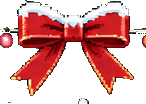
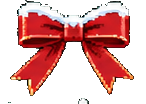
크리스마스 테마: 리본 전구 줄 고정, 눈덩이 부서짐, 눈사람 상호작용, 마우스 눈 늘림
Claude-Session: https://claude.ai/code/session_01SD1r88cWRXeeVkCa4hFAMd

Changed region(s): [[0.0, 0.2596, 0.137, 0.4615], [0.8767, 0.2596, 1.0, 0.4615]]

diff --git a/src/components/theme/MouseEffects.tsx b/src/components/theme/MouseEffects.tsx
@@ -1,7 +1,8 @@
 // 마우스에 반응하는 효과 — 화면 맨 위에 눌리지 않는 캔버스 한 장을 깔고 테마마다 다른 것을 그린다.
 //   바다       : 마우스가 지나간 자리에서 방울이 떠오른다
 //   크리스마스 : 마우스가 지나간 자리와 하늘(배경)에서 눈이 떨어져, 그 아래 카드 윗변(data-snow-ledge)과 화면 바닥에 쌓인다.
-//                쌓인 눈으로 눈덩이를 굴리고(경사면에서는 저절로 굴러 내려간다), 눈덩이 둘을 합치면 눈사람이 된다
+//                쌓인 눈으로 눈덩이를 굴리고(경사면에서는 저절로 굴러 내려간다), 눈덩이 둘을 합치면 눈사람이 된다.
+//                높은 데서 떨어진 눈덩이는 부서지고, 눈사람은 마우스를 바라보고 · 누르면 흔들리고 · 끌어 옮길 수 있고 · 높은 데서 떨어지면 흩어진다
 //   우주       : 마우스 주변에서 별빛이 반짝인다
 //   다크       : 없음 (깔끔하게 쓰는 테마)
 // 설정 › 테마의 "마우스 효과" 스위치로 끈다. 기기의 "움직임 줄이기"가 켜져 있으면 그리지 않는다.
@@ -9,7 +10,7 @@
 import { useEffect, useRef } from 'react'
 import { prefersReducedMotion, useTheme, type ThemeId } from '../../lib/theme'
 
-type Particle = { x: number; y: number; vx: number; vy: number; r: number; life: number; max: number; kind: 'bubble' | 'snow' | 'spark'; hue?: string; sky?: boolean }
+type Particle = { x: number; y: number; vx: number; vy: number; r: number; life: number; max: number; kind: 'bubble' | 'snow' | 'spark'; hue?: string; sky?: boolean; /** 부서진 눈덩이 조각: 중력을 받는다 */ g?: number }
 
 /* ---------- 쌓이는 눈 (크리스마스) ---------- */
 const BIN = 3 // 쌓인 눈 높이를 이 너비(px)마다 하나씩 둔다
@@ -21,13 +22,29 @@ const BALL_START_R = 4
 const BALL_MAX_R = 26
 const SNOWMAN_MIN_R = 10 // 이 크기 이상인 눈덩이 둘을 합치면 눈사람
 const SLOPE_G = 0.45 // 경사면에서 눈덩이를 끌어내리는 힘
-const ROLL_FRICTION = 0.97
+const ROLL_FRICTION = 0.93
+const ROLL_STOP_SLOPE = 0.18 // 이보다 완만하고 느리면 멈춘다 (울퉁불퉁한 눈 위에서 끝없이 구르지 않게)
 const SKY_EVERY = 3 // 이 프레임마다 하늘에서 눈송이 하나 (배경 눈도 쌓인다)
 const SKY_DEPOSIT = 0.9 // 하늘 눈은 마우스 눈보다 조금 덜 쌓인다
 /** 눈덩이: 놓인 자리(ledge)와 그 자리 왼쪽부터의 x. 들고 있을 때는 화면 좌표(hx, hy) */
 type Ball = { ledge: Ledge | null; x: number; r: number; held: boolean; hx: number; hy: number; vx: number; vy: number; rolling: boolean; spin: number }
 /** 눈사람: 아래부터 눈덩이 반지름 */
-type Snowman = { ledge: Ledge; x: number; parts: number[] }
+type Snowman = {
+  ledge: Ledge | null
+  x: number
+  parts: number[]
+  /** 흔들림(라디안)과 그 속도: 누르거나 착지하면 흔들린다 */
+  wob: number
+  wobV: number
+  /** 들고 있거나 떨어지는 중이면 화면 좌표(밑바닥 가운데) */
+  held: boolean
+  hx: number
+  hy: number
+  vy: number
+}
+const BALL_BREAK_V = 9 // 이 속도(px/프레임) 이상으로 떨어지면 눈덩이가 부서진다 (≈ 80px 넘게 떨어졌을 때)
+const SNOWMAN_BREAK_V = 11 // 눈사람은 이 속도 이상이면 눈덩이로 흩어진다
+const CHUNK_G = 0.28
 
 /** 눈이 쌓이는 자리 하나: 카드 윗변(el) 또는 화면 바닥(el = null). 높이는 그 자리 왼쪽부터 BIN 간격 */
 type Ledge = { el: Element | null; h: number[] }
@@ -60,7 +77,7 @@ function settle(hs: number[]) {
   }
 }
 
-const MAX_PARTICLES = 160
+const MAX_PARTICLES = 420
 
 /** 테마별로 마우스가 움직일 때 만들 알갱이 */
 function spawn(theme: ThemeId, x: number, y: number): Particle[] {
@@ -88,7 +105,7 @@ function spawn(theme: ThemeId, x: number, y: number): Particle[] {
 function eatSnow(hs: number[], x: number, r: number, dist: number) {
   const from = Math.floor((x - r * 0.7) / BIN)
   const to = Math.floor((x + r * 0.7) / BIN)
-  const bite = Math.min(1, 0.12 + Math.abs(dist) * 0.18) // 이번에 걷어 낼 비율
+  const bite = Math.min(0.35, 0.05 + Math.abs(dist) * 0.06) // 이번에 걷어 낼 비율
   let took = 0
   for (let i = from; i <= to; i++) {
     const v = hs[i] ?? 0
@@ -97,7 +114,7 @@ function eatSnow(hs: number[], x: number, r: number, dist: number) {
     hs[i] = v - t
     took += t
   }
-  return r >= BALL_MAX_R ? r : Math.min(BALL_MAX_R, Math.sqrt(r * r + took * BIN * 0.9))
+  return r >= BALL_MAX_R ? r : Math.min(BALL_MAX_R, Math.sqrt(r * r + took * BIN * 0.45))
 }
 
 /** 눈덩이: 흰 원 + 아래쪽 그늘 + 굴린 결(회전) */
@@ -121,11 +138,12 @@ function drawBall(ctx: CanvasRenderingContext2D, x: number, y: number, r: number
   }
 }
 /** 눈사람 머리: 숯 눈 · 당근 코 · 입 */
-function drawFace(ctx: CanvasRenderingContext2D, x: number, y: number, r: number) {
+function drawFace(ctx: CanvasRenderingContext2D, x: number, y: number, r: number, lx = 0, ly = 0) {
+  // 눈동자는 마우스 쪽을 본다 (lx, ly: -1 ~ 1)
   ctx.fillStyle = '#1f2328'
   for (const dx of [-0.35, 0.35]) {
     ctx.beginPath()
-    ctx.arc(x + dx * r, y - r * 0.15, Math.max(1.2, r * 0.11), 0, Math.PI * 2)
+    ctx.arc(x + dx * r + lx * r * 0.07, y - r * 0.15 + ly * r * 0.07, Math.max(1.2, r * 0.11), 0, Math.PI * 2)
     ctx.fill()
   }
   ctx.fillStyle = '#f08a24'
@@ -204,10 +222,53 @@ export function MouseEffects() {
       const i = Math.floor(b.x / BIN)
       return { x: r.left + b.x, y: r.top - (b.ledge.h[i] ?? 0) - b.r }
     }
+    /** 눈덩이가 부서진다: 크기만큼 눈 조각이 튀어 흩어지고, 내려앉은 조각은 다시 쌓인다 */
+    const shatter = (x: number, y: number, r: number) => {
+      const n = Math.min(40, Math.round(r * 1.6))
+      for (let k = 0; k < n; k++) {
+        const a = Math.random() * Math.PI - Math.PI // 위쪽 반원으로
+        const sp = 1 + Math.random() * 3
+        particles.push({ x: x + Math.cos(a) * r * 0.5, y: y + Math.sin(a) * r * 0.3, vx: Math.cos(a) * sp, vy: Math.sin(a) * sp - 0.5, r: 1.4 + Math.random() * 2, life: 0, max: 100000, kind: 'snow', g: CHUNK_G })
+      }
+    }
+    /** 눈사람 밑바닥 가운데(화면 좌표) */
+    const manBase = (m: Snowman) => {
+      if (m.held || !m.ledge) return { x: m.hx, y: m.hy }
+      const r = rectOf(m.ledge)
+      if (!r) return null
+      return { x: r.left + m.x, y: r.top - (m.ledge.h[Math.floor(m.x / BIN)] ?? 0) }
+    }
+    /** 눈사람 각 눈덩이의 가운데 (흔들림 반영) */
+    const manParts = (m: Snowman) => {
+      const base = manBase(m)
+      if (!base) return null
+      const out: { x: number; y: number; r: number }[] = []
+      let up = 0
+      for (const pr of m.parts) {
+        up += pr
+        out.push({ x: base.x + Math.sin(m.wob) * up, y: base.y - Math.cos(m.wob) * up, r: pr })
+        up += pr * 0.7
+      }
+      return out
+    }
+    let grabMan: { m: Snowman; sx: number; sy: number; moved: boolean; ox: number; oy: number } | null = null
+
     const down = (e: PointerEvent) => {
       if (active !== 'christmas' || e.button !== 0) return
       rects = ledgeRects(ledges, w, h)
       rectsAt = performance.now()
+      // 0) 눈사람을 누른다 (끌면 옮기고, 그냥 떼면 흔들린다)
+      for (const m of snowmen) {
+        const ps = manParts(m)
+        const base = manBase(m)
+        if (!ps || !base) continue
+        if (ps.some((q) => Math.hypot(e.clientX - q.x, e.clientY - q.y) <= q.r + 2)) {
+          grabMan = { m, sx: e.clientX, sy: e.clientY, moved: false, ox: e.clientX - base.x, oy: e.clientY - base.y }
+          e.preventDefault()
+          if (!raf) raf = requestAnimationFrame(frame)
+          return
+        }
+      }
       // 1) 눈덩이를 집는다
       for (const b of balls) {
         const p = ballPos(b)
@@ -241,6 +302,22 @@ export function MouseEffects() {
     }
     let dragV = 0
     const drag = (e: PointerEvent) => {
+      if (grabMan) {
+        const g = grabMan
+        if (!g.moved && Math.hypot(e.clientX - g.sx, e.clientY - g.sy) > 4) {
+          g.moved = true
+          g.m.held = true
+          g.m.ledge = null
+        }
+        if (g.moved) {
+          const dxm = e.clientX - g.ox - g.m.hx
+          g.m.hx = e.clientX - g.ox
+          g.m.hy = e.clientY - g.oy
+          g.m.wobV += dxm * 0.004 // 끌면 몸이 기운다
+        }
+        if (!raf) raf = requestAnimationFrame(frame)
+        return
+      }
       if (!grab) return
       const dx = e.clientX - lastPX
       lastPX = e.clientX
@@ -260,6 +337,19 @@ export function MouseEffects() {
       if (!raf) raf = requestAnimationFrame(frame)
     }
     const up = () => {
+      if (grabMan) {
+        const g = grabMan
+        grabMan = null
+        if (!g.moved) {
+          // 눌렀다 뗌: 흔들린다
+          g.m.wobV += (Math.random() < 0.5 ? -1 : 1) * 0.12
+        } else {
+          g.m.held = false
+          g.m.vy = 0
+        }
+        if (!raf) raf = requestAnimationFrame(frame)
+        return
+      }
       const b = grab
       grab = null
       if (!b) return
@@ -279,7 +369,7 @@ export function MouseEffects() {
           const p = ballPos(o)
           if (p && o.ledge && Math.hypot(b.hx - p.x, b.hy - p.y) < b.r + o.r) {
             const parts = [o.r, b.r].sort((a, c) => c - a)
-            snowmen.push({ ledge: o.ledge, x: o.x, parts })
+            snowmen.push({ ledge: o.ledge, x: o.x, parts, wob: 0, wobV: 0.06, held: false, hx: 0, hy: 0, vy: 0 })
             balls.splice(balls.indexOf(o), 1)
             balls.splice(balls.indexOf(b), 1)
             if (!raf) raf = requestAnimationFrame(frame)
@@ -287,8 +377,8 @@ export function MouseEffects() {
           }
         }
         for (const m of snowmen) {
-          const r = rectOf(m.ledge)
-          if (!r || m.parts.length >= 3) continue
+          const r = m.ledge && rectOf(m.ledge)
+          if (!r || !m.ledge || m.parts.length >= 3) continue
           const baseY = r.top - (m.ledge.h[Math.floor(m.x / BIN)] ?? 0)
           const topY = baseY - m.parts.reduce((a, c) => a + c * 2 * 0.85, 0)
           if (Math.abs(b.hx - (r.left + m.x)) < b.r + m.parts[m.parts.length - 1] && Math.abs(b.hy - topY) < b.r * 2 + 10) {
@@ -312,11 +402,12 @@ export function MouseEffects() {
       mouse.x = e.clientX
       mouse.y = e.clientY
       mouse.seen = true
-      // 너무 많이 만들지 않게 35ms 에 한 번
+      // 너무 많이 만들지 않게 간격을 둔다. 크리스마스는 눈을 넉넉히 (15ms 마다 3번)
       const now = performance.now()
-      if (now - lastSpawn > 35 && particles.length < MAX_PARTICLES) {
+      const christmas = active === 'christmas'
+      if (now - lastSpawn > (christmas ? 15 : 35) && particles.length < MAX_PARTICLES) {
         lastSpawn = now
-        particles.push(...spawn(active, mouse.x, mouse.y))
+        for (let k = 0; k < (christmas ? 3 : 1); k++) particles.push(...spawn(active, mouse.x, mouse.y))
       }
       if (!raf) raf = requestAnimationFrame(frame)
     }
@@ -360,6 +451,7 @@ export function MouseEffects() {
         }
         p.life++
         p.x += p.vx + (p.kind === 'bubble' ? Math.sin((p.life + p.r * 10) / 14) * 0.4 : 0)
+        if (p.g) p.vy += p.g
         p.y += p.vy
         const t = p.life / p.max
         const alpha = p.kind === 'snow' && piling ? Math.min(1, p.life / 8) : t < 0.15 ? t / 0.15 : 1 - (t - 0.15) / 0.85
@@ -436,6 +528,12 @@ export function MouseEffects() {
             b.hx += b.vx
             const sfc = surfaceBelow(b.hx, b.hy + b.r)
             if (sfc && ny + b.r >= sfc.top) {
+              if (b.vy >= BALL_BREAK_V) {
+                // 높은 데서 떨어졌다: 부서진다
+                shatter(b.hx, sfc.top - b.r * 0.5, b.r)
+                b.r = 0
+                continue
+              }
               b.ledge = sfc.r.ledge
               b.x = Math.max(0, Math.min(sfc.r.width, b.hx - sfc.r.left))
               b.vy = 0
@@ -454,7 +552,7 @@ export function MouseEffects() {
               const at = (x: number) => hs[Math.floor(x / BIN)] ?? 0
               const slope = (at(b.x - b.r * 0.6) - at(b.x + b.r * 0.6)) / Math.max(b.r * 1.2, 1) // 오른쪽이 낮으면 +
               b.vx = (b.vx + slope * SLOPE_G) * ROLL_FRICTION
-              if (Math.abs(b.vx) < 0.02 && Math.abs(slope) < 0.05) b.vx = 0
+              if (Math.abs(b.vx) < 0.35 && Math.abs(slope) < ROLL_STOP_SLOPE) b.vx = 0
               if (b.vx !== 0) {
                 b.x += b.vx
                 b.spin += b.vx / Math.max(b.r, 1)
@@ -476,19 +574,59 @@ export function MouseEffects() {
           drawBall(ctx, p.x, p.y, b.r, b.spin)
         }
         for (let i = balls.length - 1; i >= 0; i--) if (balls[i].r <= 0) balls.splice(i, 1)
-        for (const m of snowmen) {
-          const r = rectOf(m.ledge)
-          if (!r) continue
-          let y = r.top - (m.ledge.h[Math.floor(m.x / BIN)] ?? 0)
-          const x = r.left + m.x
-          m.parts.forEach((pr, k) => {
-            y -= pr
-            drawBall(ctx, x, y, pr, 0)
-            if (k === m.parts.length - 1) drawFace(ctx, x, y, pr)
-            else if (k === m.parts.length - 2) drawButtons(ctx, x, y, pr)
-            y -= pr * 0.7
+        for (let mi = snowmen.length - 1; mi >= 0; mi--) {
+          const m = snowmen[mi]
+          // 놓은 눈사람은 아래 표면까지 떨어진다. 너무 빨리 떨어지면 눈덩이로 흩어진다
+          if (!m.held && !m.ledge) {
+            m.vy = Math.min(m.vy + 0.5, 16)
+            const sfc = surfaceBelow(m.hx, m.hy)
+            if (sfc && m.hy + m.vy >= sfc.top) {
+              if (m.vy >= SNOWMAN_BREAK_V) {
+                let up = 0
+                for (const pr of m.parts) {
+                  up += pr
+                  balls.push({ ledge: null, x: 0, r: pr, held: false, hx: m.hx + (Math.random() - 0.5) * pr, hy: sfc.top - up, vx: (Math.random() - 0.5) * 5, vy: -2 - Math.random() * 2, rolling: false, spin: 0 })
+                  up += pr * 0.7
+                }
+                shatter(m.hx, sfc.top, 6)
+                snowmen.splice(mi, 1)
+                continue
+              }
+              m.ledge = sfc.r.ledge
+              m.x = Math.max(0, Math.min(sfc.r.width, m.hx - sfc.r.left))
+              m.wobV += (Math.random() < 0.5 ? -1 : 1) * m.vy * 0.01 // 착지하며 흔들린다
+              m.vy = 0
+            } else if (m.hy > h + 120) {
+              snowmen.splice(mi, 1)
+              continue
+            } else {
+              m.hy += m.vy
+            }
+            moving = true
+          }
+          // 흔들림: 바로 서려는 힘 + 감쇠
+          if (m.wob !== 0 || m.wobV !== 0) {
+            m.wobV += -m.wob * 0.08
+            m.wobV *= 0.92
+            m.wob += m.wobV
+            if (Math.abs(m.wob) < 0.002 && Math.abs(m.wobV) < 0.002) {
+              m.wob = 0
+              m.wobV = 0
+            } else moving = true
+          }
+          const ps = manParts(m)
+          if (!ps) continue
+          ps.forEach((q, k) => {
+            drawBall(ctx, q.x, q.y, q.r, 0)
+            if (k === ps.length - 1) {
+              // 머리: 마우스를 바라본다
+              const d = Math.hypot(mouse.x - q.x, mouse.y - q.y) || 1
+              const look = mouse.seen ? Math.min(1, d / 80) : 0
+              drawFace(ctx, q.x, q.y, q.r, ((mouse.x - q.x) / d) * look, ((mouse.y - q.y) / d) * look)
+            } else if (k === ps.length - 2) drawButtons(ctx, q.x, q.y, q.r)
           })
         }
+        if (grabMan) moving = true
         if (grab) moving = true
       }
 

diff --git a/src/components/theme/ThemeObjects.tsx b/src/components/theme/ThemeObjects.tsx
@@ -69,6 +69,8 @@ const CHRISTMAS: Placement[] = [
   // 끈이 아주 짧은 눈송이 · 선물(4~5px)은 끈을 그림에 붙여 두고 끈 위치를 축으로 흔든다
   { set: 0, slot: 'header', src: x('ornament_garland_lights_left'), style: { left: 'calc(5% + 0px)', top: 0, width: 504 } },
   { set: 0, slot: 'header', src: x('ornament_garland_lights_right'), style: { left: 'calc(5% + 656px)', top: 0, width: 476 } },
+  // 리본 양옆의 전구 줄 · 전구는 따로 떼어(ornament_bow_wire) 움직이지 않게 둔다 — 리본만 흔들린다
+  { set: 0, slot: 'header', src: x('ornament_bow_wire'), style: { left: 'calc(5% + 507px)', top: -2, width: 146 } },
   { set: 0, slot: 'header', src: x('ornament_bow'), style: { left: 'calc(5% + 507px)', top: -2, width: 146 }, sway: 5 },
   { set: 0, slot: 'header', src: x('ornament_ball_red'), style: { left: 'calc(5% + 199px)', top: 40, width: 39 }, rope: { x: 20, top: 26 }, wideOnly: true },
   { set: 0, slot: 'header', src: x('ornament_sock'), style: { left: 'calc(5% + 266px)', top: 40, width: 52 }, sway: 14, wideOnly: true },
